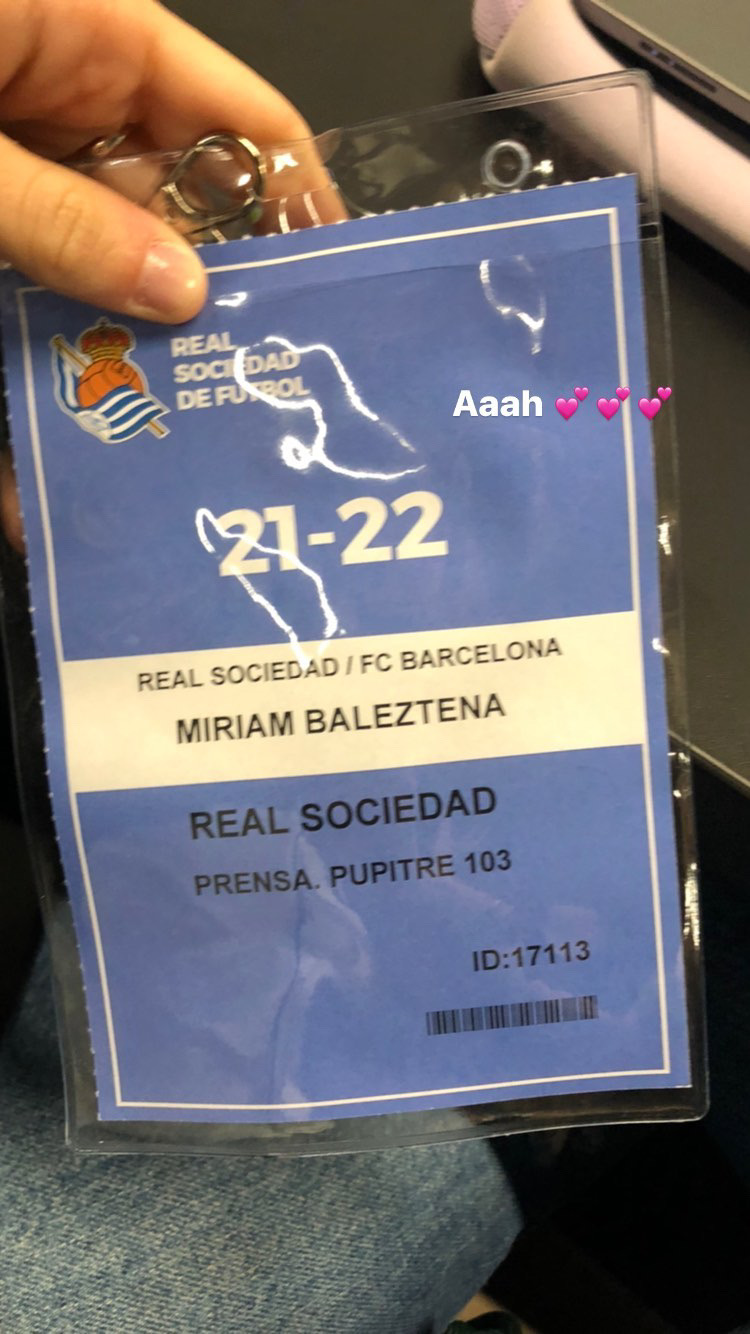
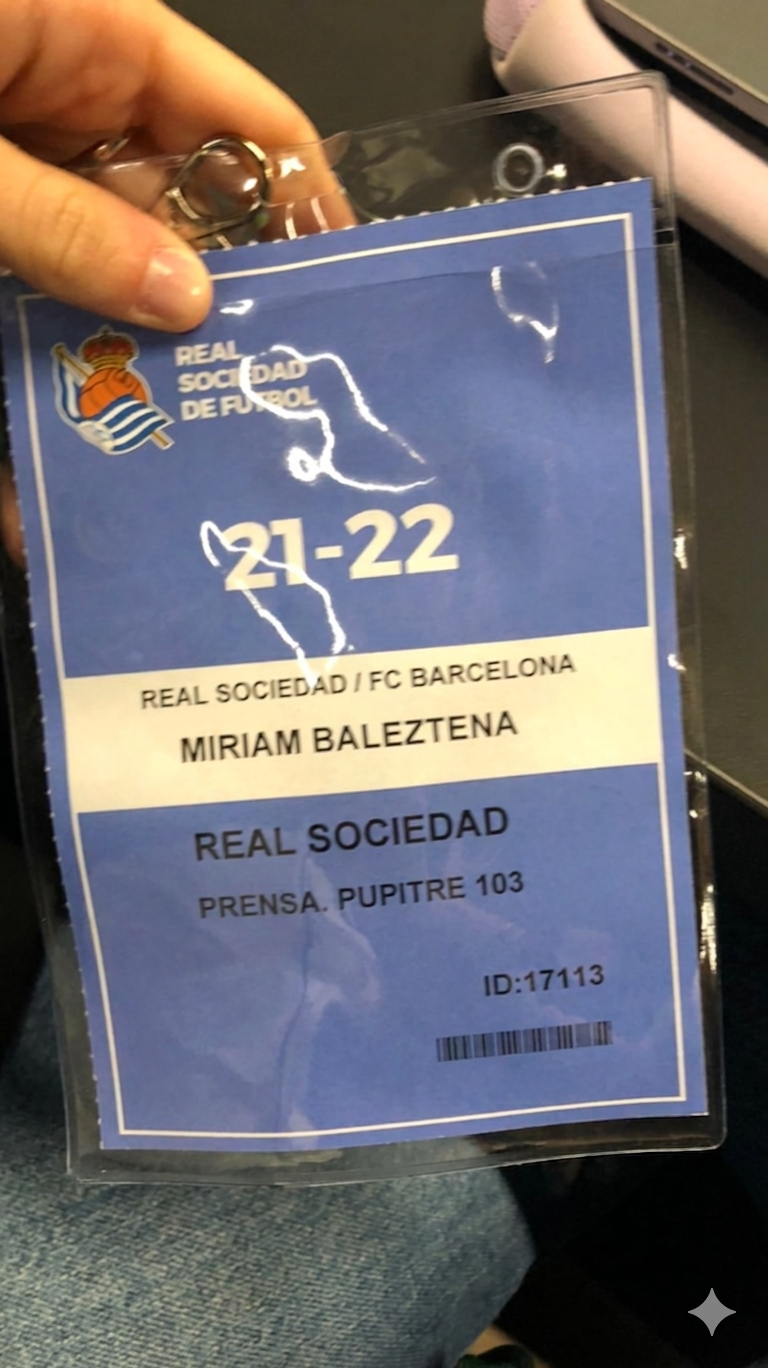
Actualizar La Créme y Real Sociedad: textos, métricas e imágenes
La Créme:
- "Un TheFork pero con caché" como gancho
- Sin Junior, dirección visual Elkano
- Imágenes: Miriam en stand Gastronomíka, flor Michelin, equipo

Real Sociedad:
- Métricas: 57+ publicaciones matchday, 39.500 aforo Reale Arena
- Texto: partidos contra FC Barcelona y Atlético de Madrid
- Fotos limpias sin textos de stories + nueva alineación

Changed region(s): [[0.6133, 0.2766, 0.8893, 0.3381], [0.8893, 0.922, 0.9507, 0.9835]]

diff --git a/index.html b/index.html
@@ -1192,8 +1192,8 @@
 
       <!-- LA CREME -->
       <div class="tab-content" id="tab-lacreme">
-        <p class="case-role reveal">Junior Communications Specialist &middot; 2023</p>
-        <p class="case-desc reveal">App de recomendaciones gastron&oacute;micas con jurado de <strong>chefs estrella Michelin</strong> + agencia de marketing gastron&oacute;mico. Gestion&eacute; redes sociales desde cero, di visibilidad a chefs Michelin como altavoz de la marca, y represent&eacute; a La Cr&eacute;me en <strong>San Sebasti&aacute;n Gastronom&iacute;ka</strong>.</p>
+        <p class="case-role reveal">Communications Specialist &middot; 2023</p>
+        <p class="case-desc reveal">Un TheFork pero con cach&eacute;: app de recomendaciones gastron&oacute;micas donde <strong>chefs estrella Michelin</strong> recomiendan restaurantes, m&aacute;s agencia de marketing gastron&oacute;mico. Gestion&eacute; las redes sociales desde cero, di visibilidad a chefs Michelin como altavoz de la marca, y represent&eacute; a La Cr&eacute;me en <strong>San Sebasti&aacute;n Gastronom&iacute;ka</strong>.</p>
 
         <div class="metrics reveal">
           <div class="metric">
@@ -1212,17 +1212,17 @@
             <div class="metric-sub">Direcci&oacute;n visual y fotogr&aacute;fica</div>
           </div>
           <div class="metric">
-            <div class="metric-value">RRSS</div>
-            <div class="metric-label">Desde cero</div>
-            <div class="metric-sub">Marca nueva, crecimiento orgánico</div>
+            <div class="metric-value">0 → ∞</div>
+            <div class="metric-label">RRSS desde cero</div>
+            <div class="metric-sub">Marca nueva, todo por construir</div>
           </div>
         </div>
 
         <div class="portfolio-gallery reveal">
+          <figure class="gallery-item"><img src="images/lacreme-miriam-stand.jpg" alt="Miriam presentando la app en Gastronom&iacute;ka" loading="lazy"><figcaption class="gallery-caption">Presentando la app en Gastronom&iacute;ka</figcaption></figure>
+          <figure class="gallery-item"><img src="images/lacreme-michelin.jpg" alt="Premio Michelin Spain Mentor Chef Award" loading="lazy"><figcaption class="gallery-caption">Estrella Michelin</figcaption></figure>
           <figure class="gallery-item"><img src="images/lacreme-equipo.jpg" alt="Equipo La Cr&eacute;me en Gastronom&iacute;ka" loading="lazy"><figcaption class="gallery-caption">Equipo en Gastronom&iacute;ka</figcaption></figure>
-          <figure class="gallery-item"><img src="images/lacreme-evento.jpg" alt="Miriam en San Sebasti&aacute;n Gastronom&iacute;ka" loading="lazy"><figcaption class="gallery-caption">San Sebasti&aacute;n Gastronom&iacute;ka</figcaption></figure>
-          <figure class="gallery-item"><img src="images/lacreme-chapas-mano.jpg" alt="Chapas La Cr&eacute;me en Gastronom&iacute;ka" loading="lazy"><figcaption class="gallery-caption">Branding en Gastronom&iacute;ka</figcaption></figure>
-          <figure class="gallery-item"><img src="images/lacreme-chapas.jpg" alt="Merchandise La Cr&eacute;me" loading="lazy"><figcaption class="gallery-caption">Merchandise La Cr&eacute;me</figcaption></figure>
+          <figure class="gallery-item"><img src="images/lacreme-chapas.jpg" alt="Branding La Cr&eacute;me" loading="lazy"><figcaption class="gallery-caption">Branding La Cr&eacute;me</figcaption></figure>
         </div>
 
         <div class="highlights reveal">
@@ -1236,7 +1236,7 @@
           </div>
           <div class="highlight">
             <h4>Caso Elkano</h4>
-            <p>Particip&eacute; en la creaci&oacute;n visual de un nuevo men&uacute;: b&uacute;squeda de fotos y direcci&oacute;n de lo que el chef quer&iacute;a transmitir.</p>
+            <p>Direcci&oacute;n visual del nuevo men&uacute; de un restaurante con estrella Michelin: selecci&oacute;n fotogr&aacute;fica y l&iacute;nea visual alineada con la visi&oacute;n del chef.</p>
           </div>
           <div class="highlight">
             <h4>Gastronom&iacute;ka</h4>
@@ -1248,7 +1248,7 @@
       <!-- REAL SOCIEDAD -->
       <div class="tab-content" id="tab-realsociedad">
         <p class="case-role reveal">Community Manager &middot; 2021&ndash;2022</p>
-        <p class="case-desc reveal">Pr&aacute;cticas en el departamento de comunicaci&oacute;n del club durante una temporada completa. Cubr&iacute; todos los <strong>partidos en casa desde el palco de prensa</strong> de la Reale Arena, gestionando <strong>Instagram y Twitter</strong> en tiempo real: alineaci&oacute;n, descanso, goles y resultado. Supervisada por <strong>Luis Arconada</strong>, Director de Comunicaci&oacute;n.</p>
+        <p class="case-desc reveal">Temporada completa en el departamento de comunicaci&oacute;n del club. Cubr&iacute; todos los <strong>partidos en casa desde el palco de prensa</strong> de la Reale Arena &mdash; incluyendo partidos contra <strong>FC Barcelona y Atl&eacute;tico de Madrid</strong> &mdash; gestionando Instagram y Twitter en tiempo real. Supervisada por <strong>Luis Arconada</strong>, Director de Comunicaci&oacute;n.</p>
 
         <div class="metrics reveal">
           <div class="metric">
@@ -1257,34 +1257,34 @@
             <div class="metric-sub">Temporada completa en casa</div>
           </div>
           <div class="metric">
-            <div class="metric-value">3+</div>
-            <div class="metric-label">Posts por partido</div>
-            <div class="metric-sub">M&iacute;nimo en Instagram</div>
+            <div class="metric-value">57+</div>
+            <div class="metric-label">Publicaciones matchday</div>
+            <div class="metric-sub">M&iacute;n. 3 por partido en Instagram</div>
           </div>
           <div class="metric">
-            <div class="metric-value">IG + X</div>
-            <div class="metric-label">Redes gestionadas</div>
-            <div class="metric-sub">+ alg&uacute;n TikTok</div>
+            <div class="metric-value">39.500</div>
+            <div class="metric-label">Aforo Reale Arena</div>
+            <div class="metric-sub">Cobertura en directo desde el palco</div>
           </div>
           <div class="metric">
-            <div class="metric-value">Directo</div>
-            <div class="metric-label">Palco de prensa</div>
-            <div class="metric-sub">Coordinada con fot&oacute;grafo</div>
+            <div class="metric-value">2</div>
+            <div class="metric-label">Plataformas en directo</div>
+            <div class="metric-sub">Instagram + Twitter simult&aacute;neo</div>
           </div>
         </div>
 
         <div class="portfolio-gallery reveal">
-          <figure class="gallery-item"><img src="images/rs-acreditacion.jpg" alt="Acreditaci&oacute;n prensa Real Sociedad" loading="lazy"><figcaption class="gallery-caption">Acreditaci&oacute;n de prensa</figcaption></figure>
           <figure class="gallery-item"><img src="images/rs-estadio.jpg" alt="Cobertura desde el palco de prensa" loading="lazy"><figcaption class="gallery-caption">Palco de prensa, Reale Arena</figcaption></figure>
-          <figure class="gallery-item"><img src="images/rs-miriam-estadio.jpg" alt="Miriam en la Reale Arena" loading="lazy"><figcaption class="gallery-caption">En la Reale Arena</figcaption></figure>
+          <figure class="gallery-item"><img src="images/rs-acreditacion.jpg" alt="Acreditaci&oacute;n prensa Real Sociedad vs FC Barcelona" loading="lazy"><figcaption class="gallery-caption">Acreditaci&oacute;n vs FC Barcelona</figcaption></figure>
           <figure class="gallery-item"><img src="images/rs-matchday.jpg" alt="Matchday Real Sociedad vs Atl&eacute;tico" loading="lazy"><figcaption class="gallery-caption">Matchday vs Atl&eacute;tico</figcaption></figure>
+          <figure class="gallery-item"><img src="images/rs-alineacion.jpg" alt="Preparando alineaci&oacute;n matchday" loading="lazy"><figcaption class="gallery-caption">Alineaci&oacute;n matchday</figcaption></figure>
         </div>
 
         <div class="highlights reveal">
           <div class="highlight"><h4>Matchday en directo</h4><p>Desde el palco de prensa de la Reale Arena: alineaci&oacute;n, descanso, goles y resultado. Casi siempre sola, coordinada con el fot&oacute;grafo a pie de campo.</p></div>
           <div class="highlight"><h4>Contenido diario</h4><p>Entre semana: copys para Instagram y Twitter adaptados al tono del club. D&iacute;as de partido: m&iacute;nimo 3 publicaciones en IG + cobertura en Twitter.</p></div>
           <div class="highlight"><h4>Autonom&iacute;a</h4><p>Aunque estaba de pr&aacute;cticas, gestion&eacute; las redes casi de forma aut&oacute;noma. Luis Arconada supervisaba pero confiaba en mi criterio.</p></div>
-          <div class="highlight"><h4>Benchmarking</h4><p>Analizaba qu&eacute; hac&iacute;an otros clubes de LaLiga en sus redes para proponer mejoras al departamento.</p></div>
+          <div class="highlight"><h4>Benchmarking LaLiga</h4><p>An&aacute;lisis de las redes de otros clubes de LaLiga para proponer formatos y mejoras al departamento de comunicaci&oacute;n.</p></div>
         </div>
       </div>
     </div>
